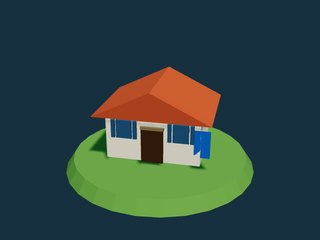
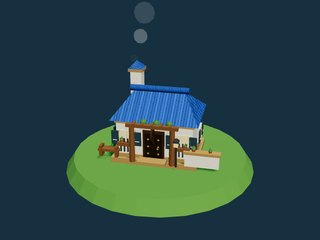
Richer detail for English, Castilian, French and German town/castle styles; roofs now use the player color
Claude-Session: https://claude.ai/code/session_01BJu2j5nwc4SUWkVPyrxHQx

Changed region(s): [[0.2812, 0.2333, 0.6875, 0.7292], [0.4062, 0.0, 0.5, 0.175]]

diff --git a/3d/index.html b/3d/index.html
@@ -764,67 +764,296 @@ async function buildIsland(){
     const r=city?.42:.3,disc=new THREE.Mesh(new THREE.CylinderGeometry(r,r,.016,28),new THREE.MeshBasicMaterial({color:col,transparent:true,opacity:.7,toneMapped:false,depthWrite:false}));disc.position.y=.01;g.add(disc);
     const rg=new THREE.Mesh(new THREE.RingGeometry(r,r+(city?.05:.035),28),new THREE.MeshBasicMaterial({color:city?0xf2c14e:0xffffff,side:THREE.DoubleSide,toneMapped:false,depthWrite:false}));rg.rotation.x=-Math.PI/2;rg.position.y=.022;g.add(rg);
   }
-const STYB=(()=>{const fm=(c,r=.85)=>new THREE.MeshStandardMaterial({color:c,roughness:r,flatShading:true});
-const mc={};const M=c=>mc[c]||(mc[c]=fm(c));
-function add(p,m,x,y,z){m.position.set(x,y,z);m.castShadow=m.receiveShadow=true;p.add(m);return m;}
-const box=(p,w,h,d,c,x,y,z)=>add(p,new THREE.Mesh(new THREE.BoxGeometry(w,h,d),M(c)),x,y+h/2,z);
-const cyl=(p,rt,rb,h,n,c,x,y,z)=>add(p,new THREE.Mesh(new THREE.CylinderGeometry(rt,rb,h,n),M(c)),x,y+h/2,z);
-const cone=(p,r,h,n,c,x,y,z)=>add(p,new THREE.Mesh(new THREE.ConeGeometry(r,h,n),M(c)),x,y+h/2,z);
-const ball=(p,r,c,x,y,z)=>add(p,new THREE.Mesh(new THREE.SphereGeometry(r,8,6),new THREE.MeshStandardMaterial({color:c,roughness:.4,metalness:.5,flatShading:true})),x,y,z);
-function gable(p,w,h,d,c,x,y,z){const s=new THREE.Shape();s.moveTo(-w/2,0);s.lineTo(w/2,0);s.lineTo(0,h);s.closePath();const g=new THREE.ExtrudeGeometry(s,{depth:d,bevelEnabled:false});g.translate(0,0,-d/2);return add(p,new THREE.Mesh(g,M(c)),x,y,z);}
-function roof(p,w,d,h,c,x,y,z,ov=.25){return gable(p,w+ov*2,h,d+ov*2,c,x,y,z);}
-function merl(p,w,d,y,c,s=.34,x0=0,z0=0){const n=Math.max(2,Math.round(w/(s*2))),m=Math.max(2,Math.round(d/(s*2)));
- for(let i=0;i<n;i++){const x=-w/2+s/2+i*(w-s)/(n-1);box(p,s,s,s*.6,c,x0+x,y,z0+d/2-s*.3);box(p,s,s,s*.6,c,x0+x,y,z0-d/2+s*.3);}
- for(let i=1;i<m-1;i++){const z=-d/2+s/2+i*(d-s)/(m-1);box(p,s*.6,s,s,c,x0-w/2+s*.3,y,z0+z);box(p,s*.6,s,s,c,x0+w/2-s*.3,y,z0+z);}}
-function win(p,x,y,z,ry=0,w=.5,h=.6,c=0xffe9a8){const o=box(p,w,h,.08,c,x,y,z);o.rotation.y=ry;return o;}
-function door(p,x,z,w=.7,h=1.1,c=0x3a2a18){box(p,w,h,.1,c,x,0,z);}
-function post(p,x,z,h,c=0x5a3a1c,r=.07){cyl(p,r,r,h,6,c,x,0,z);}
-let PC=0x2b6fd6;const banners=[];
-function banner(p,x,y,z,h=1.2,w=.7,ry=0){const g=new THREE.PlaneGeometry(w,h);const m=new THREE.Mesh(g,new THREE.MeshStandardMaterial({color:PC,roughness:.7,side:THREE.DoubleSide}));m.position.set(x,y+h/2,z);m.rotation.y=ry;p.add(m);banners.push(m);return m;}
-function flag(p,x,y,z){cyl(p,.04,.04,1.3,5,0x3a2a18,x,y,z);const g=new THREE.PlaneGeometry(.9,.5);g.translate(.45,0,0);const m=new THREE.Mesh(g,new THREE.MeshStandardMaterial({color:PC,roughness:.7,side:THREE.DoubleSide}));m.position.set(x+.04,y+1.05,z);p.add(m);banners.push(m);}
-const ST=0xa8a59c,STD=0x77736a,WOOD=0x7a4f2a,DK=0x3a2a18;
-/* ---------- casas ---------- */
+const STYB=(()=>{
+const MM={},mat=c=>MM[c]||(MM[c]=flatMat(c,.9)),mt=m=>(typeof m==='object'&&m)?m:mat(m);
+const PLA=0xf2e9d6,WHT=0xf7f3ea,TIM=0x4a3122,STL=0xc2bcae,STM=0x9a948a,STD=0x6f6a62,SAN=0xd8b67e,SAD=0xb8935a,BRK=0x9a4a34,WD=0x4a2f18,IRN=0x3a3f46,GLD=0xe8c35a,GRN=0x4f8a46,TER=0xc1663c,ROCK=0x7d786e;
+const goldM=new THREE.MeshStandardMaterial({color:GLD,metalness:.65,roughness:.3,flatShading:true});
+const SMKQ=[];
+const B=(g,w,h,d,m,x,y,z,ry)=>{const o=new THREE.Mesh(new THREE.BoxGeometry(w,h,d),mt(m));o.position.set(x,y+h/2,z);if(ry)o.rotation.y=ry;g.add(o);return o;};
+const BR=(g,w,h,d,m,x,y,z,rz)=>{const o=B(g,w,h,d,m,x,y,z);o.rotation.z=rz;return o;};
+const CY=(g,rt,rb,h,n,m,x,y,z)=>{const o=new THREE.Mesh(new THREE.CylinderGeometry(rt,rb,h,n),mt(m));o.position.set(x,y+h/2,z);g.add(o);return o;};
+const CO=(g,r,h,n,m,x,y,z,ry)=>{const o=new THREE.Mesh(new THREE.ConeGeometry(r,h,n),mt(m));o.position.set(x,y+h/2,z);if(ry)o.rotation.y=ry;g.add(o);return o;};
+const SPH=(g,r,m,x,y,z)=>{const o=new THREE.Mesh(new THREE.SphereGeometry(r,10,8),mt(m));o.position.set(x,y,z);g.add(o);return o;};
+const GAB=(g,w,h,d,m,x,y,z,ax)=>{const o=new THREE.Mesh(prism(w,h,d),mt(m));o.position.set(x,y,z);if(ax)o.rotation.y=Math.PI/2;g.add(o);return o;};
+const ARC=(g,r,t,m,x,y,z)=>{const o=new THREE.Mesh(new THREE.CylinderGeometry(r,r,t,14,1,false,0,Math.PI),mt(m));o.rotation.x=Math.PI/2;o.rotation.z=Math.PI/2;o.position.set(x,y,z);g.add(o);return o;};
+function hipGeo(w,d,h,rr){const hw=w/2,hd=d/2,A=[-hw,0,hd],Bv=[hw,0,hd],C=[hw,0,-hd],D=[-hw,0,-hd],E=[-rr,h,0],F=[rr,h,0];
+  const t=(p,q,r)=>[...p,...q,...r],v=[...t(A,Bv,F),...t(A,F,E),...t(C,D,E),...t(C,E,F),...t(Bv,C,F),...t(D,A,E)];
+  const gg=new THREE.BufferGeometry();gg.setAttribute('position',new THREE.Float32BufferAttribute(v,3));
+  const uv=[];for(let i=0;i<v.length;i+=3)uv.push((v[i]+hw)/w*2.2,(v[i+2]+hd)/d*1.6+v[i+1]/h*.8);
+  gg.setAttribute('uv',new THREE.Float32BufferAttribute(uv,2));gg.computeVertexNormals();return gg;}
+const HIP=(g,w,d,h,m,x,y,z,rr=0)=>{const o=new THREE.Mesh(hipGeo(w,d,h,rr),mt(m));o.position.set(x,y,z);g.add(o);return o;};
+function PIT(g,w,d,h,m,x,y,z,ov=.22,th=.13){const hd=d/2+ov,len=Math.hypot(hd,h),ang=Math.atan2(h,hd);
+  for(const s of[-1,1]){const sl=new THREE.Mesh(new THREE.BoxGeometry(w+ov*2,th,len+.04),mt(m));sl.position.set(x,y+h/2,z+s*hd/2);sl.rotation.x=s*ang;g.add(sl);}
+  B(g,w+ov*2+.05,.1,.17,STD,x,y+h-.07,z);}
+function PITZ(g,w,d,h,m,x,y,z,ov=.22,th=.13){const hw=w/2+ov,len=Math.hypot(hw,h),ang=Math.atan2(h,hw);
+  for(const s of[-1,1]){const sl=new THREE.Mesh(new THREE.BoxGeometry(len+.04,th,d+ov*2),mt(m));sl.position.set(x+s*hw/2,y+h/2,z);sl.rotation.z=-s*ang;g.add(sl);}
+  B(g,.17,.1,d+ov*2+.05,STD,x,y+h-.07,z);}
+function WIN(g,x,y,z,w,h,ry,sh,m){const o=new THREE.Group();o.position.set(x,y,z);if(ry)o.rotation.y=ry;g.add(o);
+  B(o,w,h,.06,lampM,0,-h/2,.02);B(o,w+.14,.07,.09,m||trimM,0,h/2-.03,0);B(o,w+.14,.08,.12,m||trimM,0,-h/2-.06,0);
+  for(const s of[-1,1])B(o,.07,h+.06,.09,m||trimM,s*(w/2+.03),-h/2-.02,0);
+  B(o,w,.045,.1,m||trimM,0,0,.01);B(o,.045,h,.1,m||trimM,0,-h/2,.01);
+  if(sh)for(const s of[-1,1]){const p=B(o,w*.52,h,.05,shutM,s*(w/2+w*.3),-h/2,.06);B(o,w*.3,.03,.03,trimM,s*(w/2+w*.3),-h/2+h*.3,.09);}
+  return o;}
+function DOOR(g,x,y,z,w,h,arch){B(g,w+.16,h+.1,.07,WD,x,y,z+.01);B(g,w,h,.1,0x2a1a0e,x,y,z+.04);
+  for(let i=0;i<3;i++)B(g,w-.08,.05,.05,0x1a1008,x,y+.14+i*(h/3.4),z+.08);
+  if(arch)ARC(g,w/2+.08,.07,WD,x,y+h,z+.01);
+  SPH(g,.05,goldM,x+w*.26,y+h*.45,z+.1);}
+function LAMP(g,x,y,z,h=.75){CY(g,.035,.045,h,6,IRN,x,y,z);B(g,.17,.18,.17,lampM,x,y+h,z);B(g,.22,.05,.22,IRN,x,y+h+.18,z);CO(g,.16,.12,4,IRN,x,y+h+.23,z,.78);}
+function BUSH(g,x,y,z,s=1){CO(g,.3*s,.5*s,7,GRN,x,y,z);CO(g,.22*s,.34*s,6,0x3f7a38,x+.22*s,y,z+.1*s);}
+function POT(g,x,y,z,s=1){CY(g,.15*s,.12*s,.2*s,8,TER,x,y,z);CO(g,.17*s,.28*s,6,GRN,x,y+.18*s,z);SPH(g,.05*s,0xe05a5a,x+.08*s,y+.3*s,z);}
+function BARREL(g,x,y,z){CY(g,.17,.15,.34,10,0x7a4f2a,x,y,z);CY(g,.175,.175,.04,10,IRN,x,y+.07,z);CY(g,.175,.175,.04,10,IRN,x,y+.24,z);}
+function LOGS(g,x,y,z){for(const[dx,dy]of[[0,0],[.19,0],[.38,0],[.095,.18],[.285,.18]]){const l=CY(g,.09,.09,.5,8,0x7a4f2a,x+dx,y+dy,z);l.rotation.x=Math.PI/2;l.position.y=y+dy+.09;}}
+function CREN(g,w,d,y,m,s=.3,x0=0,z0=0,t=null){const th=t||s*.62,n=Math.max(2,Math.round(w/(s*2))),q=Math.max(2,Math.round(d/(s*2)));
+  for(let i=0;i<n;i++){const x=-w/2+s/2+i*(w-s)/(n-1);B(g,s,s*.95,th,m,x0+x,y,z0+d/2-th/2);B(g,s,s*.95,th,m,x0+x,y,z0-d/2+th/2);}
+  for(let i=1;i<q-1;i++){const z=-d/2+s/2+i*(d-s)/(q-1);B(g,th,s*.95,s,m,x0-w/2+th/2,y,z0+z);B(g,th,s*.95,s,m,x0+w/2-th/2,y,z0+z);}}
+function CRENR(g,r,y,m,n=10,s=.22,x0=0,z0=0){for(let i=0;i<n;i++){const a=i/n*6.283;B(g,s,s,s,m,x0+Math.cos(a)*r,y,z0+Math.sin(a)*r,-a);}}
+function SLIT(g,x,y,z,ry,h=.45){const o=B(g,.1,h,.08,0x1a1a1a,x,y,z,ry);B(g,.3,.09,.07,0x1a1a1a,x,y+h*.55,z,ry);return o;}
+function BANNER(g,col,x,y,z,w=.42,h=.95,ry){const m=new THREE.Mesh(new THREE.PlaneGeometry(w,h),new THREE.MeshStandardMaterial({color:col,roughness:.75,side:THREE.DoubleSide}));
+  m.position.set(x,y-h/2,z);if(ry)m.rotation.y=ry;g.add(m);B(g,w+.1,.06,.06,0x3a2a18,x,y,z+(ry?0:.01),ry);
+  const tp=new THREE.Mesh(new THREE.ConeGeometry(w*.5,w*.42,3),new THREE.MeshStandardMaterial({color:col,roughness:.75,side:THREE.DoubleSide}));
+  tp.position.set(x,y-h-w*.2,z);tp.rotation.x=Math.PI;if(ry)tp.rotation.y=ry;tp.scale.z=.02;g.add(tp);return m;}
+function FLAG(g,col,x,y,z,h=1.5){CY(g,.045,.045,h,6,0x3a2a18,x,y,z);SPH(g,.09,goldM,x,y+h+.05,z);
+  const fg=new THREE.PlaneGeometry(.95,.52);fg.translate(.475,0,0);
+  const f=new THREE.Mesh(fg,new THREE.MeshStandardMaterial({color:col,roughness:.7,side:THREE.DoubleSide}));f.position.set(x+.04,y+h-.3,z);g.add(f);flags.push(f);return f;}
+function TORCH(g,x,y,z){CY(g,.03,.04,.5,6,IRN,x,y,z);SPH(g,.1,lampM,x,y+.56,z);}
+function STAIR(g,x,y,z,w,n,m){for(let i=0;i<n;i++)B(g,w,.1,.22,m,x,y+i*.1,z+i*.22);}
+function PINE(g,x,y,z,s=1){CY(g,.06*s,.08*s,.3*s,6,0x5a3f24,x,y,z);for(let i=0;i<3;i++)CO(g,(.34-i*.08)*s,(.46-i*.06)*s,7,0x2f6b3a,x,y+(.24+i*.3)*s,z);}
+function TIMB(g,x0,x1,y,h,z,c){B(g,.1,h,.09,c,x0,y,z);B(g,.1,h,.09,c,x1,y,z);B(g,x1-x0,.1,.09,c,(x0+x1)/2,y+h-.1,z);
+  const w=x1-x0,len=Math.hypot(w,h);BR(g,len,.09,.085,c,(x0+x1)/2,y+h/2-.045,z+.004,Math.atan2(h,w));}
+/* ===================== PUEBLOS ===================== */
 const H={};
-H.ingles=p=>{box(p,3,1.5,2.2,0xefe3c6,0,.2,0);for(const x of[-1.45,-.5,.5,1.45])box(p,.12,1.5,2.24,0x4a2f18,x,.2,0);box(p,3.04,.12,2.24,0x4a2f18,0,.95,0);
- for(const s of[-1,1]){const b=box(p,.1,1.2,.1,0x4a2f18,s*.9,.4,1.12);b.rotation.z=s*.7;}
- roof(p,3,2.2,1.3,0x6a6460,0,1.7,0,.3);box(p,.5,1.2,.5,0x9a4a34,.9,1.9,-.5);door(p,0,1.12,.6,1);win(p,-.9,1.1,1.12,0,.5,.45,0x7fb8d0);win(p,.9,1.1,1.12,0,.5,.45,0x7fb8d0);banner(p,-1.55,.4,1.1,.9,.5);};
-H.espanol=p=>{box(p,3,1.5,2.2,0xf4efe2,0,.2,0);roof(p,3,2.2,.9,0xc0562e,0,1.7,0,.35);
- box(p,.7,1.1,.1,0x4a2f18,0,.2,1.12);box(p,.74,.1,.12,0x8a7a5a,0,1.3,1.12);win(p,-.9,.95,1.12,0,.5,.6,0x2f5f8a);win(p,.9,.95,1.12,0,.5,.6,0x2f5f8a);
- for(const x of[-.9,.9]){box(p,.12,.6,.1,0x2f5f8a,x-.35,.95,1.12);box(p,.12,.6,.1,0x2f5f8a,x+.35,.95,1.12);}banner(p,1.55,.5,1.1,.9,.5);};
-H.frances=p=>{box(p,3,1.4,2.2,0xe4dccb,0,.2,0);roof(p,3,2.2,2.0,0x4a5a74,0,1.6,0,.3);
- box(p,.9,.9,.7,0xe4dccb,0,1.9,.9);gable(p,1.3,.8,.7,0x4a5a74,0,2.8,.9);win(p,0,2.1,1.26,0,.35,.45,0x7fb8d0);
- door(p,0,1.12,.6,1);win(p,-.95,1.0,1.12,0,.45,.55,0x7fb8d0);win(p,.95,1.0,1.12,0,.45,.55,0x7fb8d0);banner(p,1.55,.5,1.1,.9,.5);};
-H.aleman=p=>{box(p,3,1.4,2.2,0xf1e7cf,0,.2,0);box(p,3.04,.12,2.24,0x4a2f18,0,.85,0);for(const x of[-1.45,-.4,.4,1.45])box(p,.12,1.4,2.24,0x4a2f18,x,.2,0);
- const b=box(p,.1,1,.1,0x4a2f18,-.9,.4,1.12);b.rotation.z=.7;roof(p,3,2.2,2.3,0xb8472f,0,1.6,0,.3);
- door(p,0,1.12,.6,1);win(p,-.95,1.0,1.12,0,.45,.4,0x7fb8d0);win(p,.95,1.0,1.12,0,.45,.4,0x7fb8d0);banner(p,1.55,.5,1.1,.9,.5);};
-/* ---------- castillos ---------- */
+H.en=(g,col)=>{const R=roofMat(col);
+  B(g,3.3,.2,2.5,STM,0,0,0);B(g,1.0,.1,.4,STM,0,.2,1.33);
+  B(g,3,1.05,2.2,PLA,0,.2,0);
+  for(const z of[1.11,-1.11])TIMB(g,-1.35,1.35,.2,1.05,z,TIM);
+  B(g,.1,1.05,2.24,TIM,-1.5,.2,0);B(g,.1,1.05,2.24,TIM,1.5,.2,0);
+  B(g,3.4,.16,2.6,TIM,0,1.22,0);
+  for(const[sx,sz]of[[-1.5,1.2],[1.5,1.2],[-1.5,-1.2],[1.5,-1.2]]){const br=BR(g,.34,.1,.1,TIM,sx*.93,1.1,sz,0.7);}
+  B(g,3.3,.95,2.5,PLA,0,1.38,0);
+  for(const z of[1.26,-1.26])TIMB(g,-1.5,1.5,1.38,.95,z,TIM);
+  B(g,.1,.95,2.54,TIM,-1.65,1.38,0);B(g,.1,.95,2.54,TIM,1.65,1.38,0);
+  GAB(g,2.52,.9,3.32,PLA,0,2.33,0,1);
+  for(const sx of[-1,1]){BR(g,1.5,.1,.09,TIM,sx*.62,2.72,1.26,-sx*.62);BR(g,1.5,.1,.09,TIM,sx*.62,2.72,-1.26,-sx*.62);}
+  PIT(g,3.3,2.5,1.0,R,0,2.33,0,.3,.15);
+  B(g,.62,2.1,.62,BRK,1.12,2.0,-.62);B(g,.76,.14,.76,STD,1.12,4.1,-.62);
+  for(const dz of[-.16,.16])CY(g,.12,.14,.3,8,0x6a3a28,1.12,4.24,-.62+dz);
+  SMKQ.push({x:1.12,y:4.6,z:-.62});
+  const dm=new THREE.Group();dm.position.set(-.75,2.62,.62);g.add(dm);
+  B(dm,.85,.62,.8,PLA,0,0,0);GAB(dm,.88,.5,.82,PLA,0,.62,0);PITZ(dm,.86,.8,.52,R,0,.62,0,.12,.1);
+  WIN(dm,0,.42,.42,.4,.42,0,false);
+  WIN(g,-.95,.78,1.12,.55,.5,0,true);WIN(g,.95,.78,1.12,.55,.5,0,true);
+  WIN(g,-.95,1.95,1.28,.55,.52,0,true);WIN(g,.95,1.95,1.28,.55,.52,0,true);
+  WIN(g,1.68,1.95,0,.5,.5,Math.PI/2,false);
+  DOOR(g,0,.2,1.11,.62,1.0,true);LAMP(g,-.55,.3,1.26,.95);
+  B(g,.7,.16,.22,TIM,-.95,.5,1.2);POT(g,-1.05,.66,1.2,.6);POT(g,-.82,.66,1.2,.5);
+  BARREL(g,1.52,.2,1.0);LOGS(g,-1.9,.1,-.3);BUSH(g,1.75,.05,.45,.8);BUSH(g,-1.8,.05,.9,.65);};
+H.es=(g,col)=>{const R=roofMat(col);
+  B(g,3.4,.22,2.6,SAD,0,0,0);B(g,1.1,.11,.42,SAD,0,.22,1.42);
+  B(g,3,1.55,2.2,WHT,0,.22,0);B(g,3.06,.14,2.26,SAD,0,.22,0);B(g,3.1,.12,2.3,SAD,0,1.65,0);
+  HIP(g,3.42,2.54,.92,R,0,1.77,0,1.0);
+  for(let i=0;i<7;i++){const c=CY(g,.13,.13,.36,8,R,0,0,0);c.rotation.z=Math.PI/2;c.position.set(-1.0+i*.33,2.74,0);}
+  B(g,.46,.95,.46,WHT,-1.05,2.35,-.5);B(g,.6,.12,.6,SAD,-1.05,3.3,-.5);CO(g,.42,.3,4,R,-1.05,3.42,-.5,.78);
+  SMKQ.push({x:-1.05,y:3.75,z:-.5});
+  for(const x of[-.78,.78])CY(g,.1,.12,1.45,8,0x8a5c30,x,.22,1.42);
+  B(g,2.0,.13,.15,0x8a5c30,0,1.67,1.42);
+  for(let i=0;i<5;i++)B(g,.09,.1,1.05,0x8a5c30,-.7+i*.35,1.73,.98);
+  for(let i=0;i<6;i++)SPH(g,.13,GRN,-.62+i*.25,1.79,.9+((i%2)?.3:-.05));
+  DOOR(g,0,.22,1.12,.68,1.12,true);
+  for(let i=0;i<3;i++)for(const s of[-1,1])SPH(g,.05,goldM,s*.2,.5+i*.3,1.2);
+  for(const sx of[-1,1]){const w=WIN(g,sx*1.08,1.05,1.11,.56,.56,0,true);
+    for(let i=0;i<4;i++)B(w,.045,.56,.05,IRN,-.21+i*.14,-.56,.1);B(w,.56,.05,.05,IRN,0,-.28,.1);
+    B(g,.68,.14,.22,0x8a5c30,sx*1.08,.76,1.2);POT(g,sx*1.08-.17,.9,1.2,.5);POT(g,sx*1.08+.17,.9,1.2,.44);}
+  WIN(g,1.62,1.05,0,.5,.5,Math.PI/2,true);WIN(g,-1.62,1.05,.3,.5,.5,-Math.PI/2,true);
+  B(g,1.3,.52,.2,WHT,1.9,.22,1.3);B(g,1.4,.1,.3,SAD,1.9,.74,1.3);
+  POT(g,1.58,.84,1.3,.55);POT(g,2.2,.84,1.3,.46);
+  B(g,.85,.1,.32,0x8a5c30,-1.8,.45,1.15);for(const x of[-2.12,-1.48])B(g,.12,.45,.3,0x8a5c30,x,.22,1.15);
+  LAMP(g,.95,.22,1.52,.85);BUSH(g,-1.95,.05,.1,.7);};
+H.fr=(g,col)=>{const R=roofMat(col);
+  B(g,3.3,.26,2.5,STM,0,0,0);
+  B(g,3,1.45,2.2,PLA,0,.26,0);
+  for(const sx of[-1,1])for(let i=0;i<5;i++)B(g,.3,.22,.3,STL,sx*1.5,.3+i*.26,(i%2?1.05:1.05)-(i%2?.0:.0));
+  for(const sx of[-1,1])for(let i=0;i<5;i++)B(g,.3,.22,.3,STL,sx*1.5,.3+i*.26,-1.05);
+  B(g,3.1,.12,2.3,STL,0,1.6,0);
+  GAB(g,2.46,1.5,3.3,PLA,0,1.72,0,1);
+  PIT(g,3.3,2.46,1.85,R,0,1.72,0,.26,.14);
+  for(let i=0;i<9;i++)B(g,.12,.12,.12,STD,-.9+i*.22,3.56,0);
+  CO(g,.14,.42,4,goldM,0,3.62,0,.78);
+  for(const sx of[-1,1]){const dm=new THREE.Group();dm.position.set(sx*.86,2.1,.78);g.add(dm);
+    B(dm,.8,.72,.72,PLA,0,0,0);GAB(dm,.82,.52,.74,PLA,0,.72,0);PITZ(dm,.8,.72,.54,R,0,.72,0,.12,.1);
+    WIN(dm,0,.46,.38,.42,.48,0,false);CO(dm,.07,.2,4,goldM,0,1.26,0,.78);}
+  B(g,.56,2.3,.56,STL,-1.3,1.9,-.7);B(g,.72,.14,.72,STD,-1.3,4.2,-.7);
+  for(const dx of[-.14,.14])CY(g,.1,.11,.26,8,0x6a5a4a,-1.3+dx,4.34,-.7);
+  SMKQ.push({x:-1.3,y:4.68,z:-.7});
+  STAIR(g,0,.0,1.16,.9,3,STL);
+  DOOR(g,0,.3,1.38,.64,1.08,false);B(g,1.0,.12,.3,STL,0,1.4,1.3);GAB(g,1.0,.3,.3,STL,0,1.52,1.3);
+  for(const sx of[-1,1])B(g,.07,.42,.07,IRN,sx*.42,.3,1.38);
+  WIN(g,-1.0,.95,1.12,.56,.72,0,true);WIN(g,1.0,.95,1.12,.56,.72,0,true);
+  WIN(g,1.62,1.0,0,.52,.66,Math.PI/2,true);
+  B(g,.7,.16,.22,shutM,-1.0,.6,1.2);POT(g,-1.1,.76,1.2,.5);POT(g,-.86,.76,1.2,.45);
+  LAMP(g,.72,.3,1.42,.95);BUSH(g,1.8,.05,.8,.75);BUSH(g,-1.85,.05,-.2,.6);BARREL(g,1.6,.1,-.8);};
+H.de=(g,col)=>{const R=roofMat(col),T=0x3f2a1a;
+  B(g,3.3,.3,2.5,STM,0,0,0);
+  B(g,3,1.1,2.2,PLA,0,.3,0);
+  for(const z of[1.11,-1.11]){B(g,3,.12,.09,T,0,1.28,z);B(g,3,.12,.09,T,0,.3,z);
+    for(const x of[-1.5,-.5,.5,1.5])B(g,.11,1.1,.09,T,x,.3,z);
+    for(const[a,b]of[[-1.5,-.5],[.5,1.5]]){const w=1,h=1.1,len=Math.hypot(w,h);BR(g,len,.1,.085,T,(a+b)/2,.85-.05,z+.004,Math.atan2(h,w));BR(g,len,.1,.085,T,(a+b)/2,.85-.05,z+.004,-Math.atan2(h,w));}}
+  for(const x of[-1.5,1.5]){B(g,.1,1.1,2.24,T,x,.3,0);B(g,.1,.12,2.24,T,x,1.28,0);}
+  B(g,3.45,.18,2.62,T,0,1.4,0);
+  for(const[sx,sz]of[[-1,1],[1,1],[-1,-1],[1,-1]])BR(g,.4,.12,.12,T,sx*1.42,1.26,sz*1.2,.7);
+  B(g,3.35,1.0,2.55,PLA,0,1.58,0);
+  for(const z of[1.28,-1.28]){B(g,3.35,.11,.09,T,0,2.47,z);for(const x of[-1.67,-.84,0,.84,1.67])B(g,.11,1.0,.09,T,x,1.58,z);
+    for(const s of[-1,1]){const len=Math.hypot(.84,1.0);BR(g,len,.09,.085,T,s*.42,2.08-.05,z+.004,s*Math.atan2(1.0,.84));}}
+  for(const x of[-1.67,1.67])B(g,.1,1.0,2.59,T,x,1.58,0);
+  GAB(g,2.57,1.6,3.37,PLA,0,2.58,0,1);
+  for(const sx of[-1,1]){const ang=Math.atan2(1.6,1.285),len=Math.hypot(1.285,1.6);
+    for(const s of[-1,1]){const o=B(g,.09,.1,len+.1,T,sx*1.68,3.33,s*.64);o.rotation.x=s*ang;}
+    B(g,.09,1.6,.12,T,sx*1.68,2.58,0);B(g,.09,.11,2.57,T,sx*1.68,2.58,0);
+    const w2=WIN(g,sx*1.69,3.3,0,.42,.44,sx>0?Math.PI/2:-Math.PI/2,false);}
+  PIT(g,3.35,2.57,1.72,R,0,2.58,0,.3,.15);
+  const dm=new THREE.Group();dm.position.set(.8,3.1,.72);g.add(dm);
+  B(dm,.9,.6,.7,PLA,0,0,0);GAB(dm,.92,.5,.72,PLA,0,.6,0);PITZ(dm,.9,.7,.5,R,0,.6,0,.12,.1);WIN(dm,0,.4,.38,.44,.42,0,false);
+  B(g,.56,1.5,.56,STM,-1.15,3.3,-.66);B(g,.7,.14,.7,STD,-1.15,4.8,-.66);
+  SMKQ.push({x:-1.15,y:5.1,z:-.66});
+  DOOR(g,0,.3,1.11,.68,1.05,true);
+  for(const sx of[-1,1]){const w=WIN(g,sx*1.0,.9,1.12,.5,.5,0,true);
+    for(const s of[-1,1])B(w,.12,.12,.04,lampM,s*(.25+.15),-.25,.09);}
+  WIN(g,-.84,2.2,1.29,.5,.5,0,true);WIN(g,.84,2.2,1.29,.5,.5,0,true);WIN(g,0,2.2,1.29,.45,.45,0,false);
+  WIN(g,1.72,2.2,0,.5,.5,Math.PI/2,false);
+  LOGS(g,1.72,.1,.5);LAMP(g,-.62,.3,1.3,.9);B(g,.9,.12,.3,T,1.0,.3,1.35);for(const x of[.65,1.35])B(g,.1,.3,.28,T,x,.3,1.35);
+  BUSH(g,-1.9,.05,.5,.7);PINE(g,1.95,.02,-1.0,.9);};
+/* ===================== CASTILLOS ===================== */
 const C={};
-C.ingles=p=>{box(p,6,.2,4.6,STD,0,0,0);const W=5.6,D=4.2,wh=1.3;
- box(p,W,wh,.3,ST,0,.2,D/2-.15);box(p,W,wh,.3,ST,0,.2,-D/2+.15);box(p,.3,wh,D,ST,-W/2+.15,.2,0);box(p,.3,wh,D,ST,W/2-.15,.2,0);
- merl(p,W,D,.2+wh,ST,.34);
- for(const [x,z] of[[-W/2,-D/2],[W/2,-D/2],[-W/2,D/2],[W/2,D/2]]){box(p,.9,2.2,.9,ST,x,.2,z);merl(p,.9,.9,2.4,ST,.3,x,z);}
- box(p,2.3,4,2.3,ST,0,.2,-.3);merl(p,2.3,2.3,4.2,STD,.42,0,-.3);for(const [x,z] of[[-1.1,-1.4],[1.1,-1.4],[-1.1,.8],[1.1,.8]])box(p,.5,.9,.5,STD,x,4.2,z);
- for(const y of[1.3,2.3,3.2]){win(p,0,y,.88,0,.35,.6,0x2a1d10);win(p,0,y,-1.48,0,.35,.6,0x2a1d10);}
- box(p,1.3,1.1,.2,DK,0,.2,D/2+.02);flag(p,0,4.4,-.3);};
-C.espanol=p=>{const SA=0xd6b27a,SD=0xb8935a;box(p,6,.2,4.6,SD,0,0,0);const W=5.6,D=4.2;
- box(p,W,1.5,.4,SA,0,.2,D/2-.2);box(p,W,1.5,.4,SA,0,.2,-D/2+.2);box(p,.4,1.5,D,SA,-W/2+.2,.2,0);box(p,.4,1.5,D,SA,W/2-.2,.2,0);merl(p,W,D,1.7,SA,.36);
- for(const [x,z] of[[-W/2,-D/2],[W/2,-D/2],[-W/2,D/2],[W/2,D/2]]){box(p,1,2.6,1,SA,x,.2,z);merl(p,1,1,2.8,SA,.3,x,z);win(p,x,1.6,z+.52,0,.2,.5,0x2a1d10);}
- box(p,2.2,4.4,2.2,0xe0bd88,0,.2,-.2);merl(p,2.2,2.2,4.6,0xe0bd88,.4,0,-.2);for(const y of[2.2,3.3])for(const s of[-.5,0,.5])win(p,s,y,.92,0,.2,.6,0x2a1d10);
- box(p,1.4,1.3,.2,DK,0,.2,D/2+.02);flag(p,0,4.9,-.2);};
-C.frances=p=>{const W=5.2,D=3.6,CS=0xe6e0d0,CR=0x4f6682;box(p,6,.2,4.6,STD,0,0,0);
- box(p,W,1.6,D,CS,0,.2,0);box(p,W+.2,.12,D+.2,0x9a948a,0,1.8,0);
- for(const [x,z,h] of[[-W/2,-D/2,2.8],[W/2,-D/2,2.8],[-W/2,D/2,2.8],[W/2,D/2,2.8]]){cyl(p,.85,.9,h,10,CS,x,.2,z);cone(p,1.05,2.2,10,CR,x,.2+h,z);ball(p,.12,0xe0b84a,x,.2+h+2.25,z);win(p,x,1.6,z+(z>0?.88:-.88),0,.25,.55,0x2a1d10);}
- cyl(p,1.0,1.05,4.4,10,CS,0,.2,-.2);cone(p,1.25,3,10,CR,0,4.6,-.2);ball(p,.14,0xe0b84a,0,7.7,-.2);for(const y of[2.2,3.4])win(p,0,y,.82,0,.28,.6,0x2a1d10);
- box(p,1.2,1.2,.2,DK,0,.2,D/2+.02);flag(p,0,7.8,-.2);};
-C.aleman=p=>{const rk=new THREE.Mesh(new THREE.ConeGeometry(3.4,2.2,7),M(0x7a7468));add(p,rk,0,1.1,0);cyl(p,2.2,2.5,.6,7,0x6a6458,0,2.0,0);
- box(p,3.4,1.5,2,0xc2b9a4,.7,2.6,.2);roof(p,3.4,2,1.4,0x8a3a2a,.7,4.1,.2,.3);
- box(p,1.5,3.4,1.5,0xcfc7b2,-1.2,2.6,-.3);cone(p,1.15,3.2,4,0x3f4a5a,-1.2,6.0,-.3).rotation.y=Math.PI/4;
- cyl(p,.55,.6,2.4,8,0xcfc7b2,1.9,2.6,-.8);cone(p,.75,1.3,8,0x8a3a2a,1.9,5.0,-.8);
- door(p,.7,1.22,.7,1.1);win(p,-1.2,4.4,.46,0,.3,.55,0x2a1d10);win(p,-1.2,3.4,.46,0,.3,.55,0x2a1d10);flag(p,-1.2,9.2,-.3);};
-
-const wrap=(f,sc)=>col=>{PC=new THREE.Color(col).getHex();const g=new THREE.Group(),inner=new THREE.Group();f(inner);inner.scale.setScalar(sc);g.add(inner);g.traverse(o=>{if(o.isMesh){o.castShadow=true;o.receiveShadow=true;}});return g;};
+C.en=(g,col)=>{const R=roofMat(col),W=5.6,D=4.2;
+  B(g,6.2,.3,4.8,STD,0,-.05,0);B(g,5.9,.12,4.5,0x8a8478,0,.25,0);
+  for(const[w,d,x,z]of[[W,.42,0,D/2-.21],[W,.42,0,-D/2+.21],[.42,D,-W/2+.21,0],[.42,D,W/2-.21,0]])B(g,w,1.45,d,STL,x,.25,z);
+  CREN(g,W,D,1.7,STL,.34,0,0,.26);
+  for(let i=0;i<4;i++){SLIT(g,-1.6+i*1.05,.9,D/2+.02,0,.45);SLIT(g,-1.6+i*1.05,.9,-D/2-.02,0,.45);}
+  for(const[x,z]of[[-W/2,-D/2],[W/2,-D/2],[-W/2,D/2],[W/2,D/2]]){
+    B(g,1.1,2.5,1.1,STL,x,.25,z);B(g,1.24,.14,1.24,STM,x,2.62,z);CREN(g,1.24,1.24,2.76,STL,.3,x,z,.24);
+    SLIT(g,x,1.5,z+(z>0?.57:-.57),0,.4);SLIT(g,x+(x>0?.57:-.57),1.5,z,Math.PI/2,.4);
+    if(z<0)CO(g,.92,1.1,4,R,x,2.9,z,.78);}
+  const gx=0,gz=D/2;
+  for(const s of[-1,1]){CY(g,.62,.68,2.9,12,STL,s*1.15,.25,gz);CRENR(g,.66,3.2,STL,10,.24,s*1.15,gz);SLIT(g,s*1.15,1.7,gz+.6,0,.4);}
+  B(g,2.3,.9,.9,STL,0,2.2,gz);CREN(g,2.3,.9,3.15,STL,.3,0,gz,.24);
+  B(g,1.4,1.5,.3,0x241a10,0,.25,gz+.12);ARC(g,.7,.3,0x241a10,0,1.75,gz+.12);
+  for(let i=0;i<5;i++)B(g,.08,1.9,.1,IRN,-.52+i*.26,.3,gz+.24);
+  for(let i=0;i<4;i++)B(g,1.3,.07,.1,IRN,0,.55+i*.42,gz+.24);
+  for(let i=0;i<5;i++)B(g,1.3,.09,.26,0x6a4a2a,0,.02,gz+.46+i*.27);
+  for(const s of[-1,1]){CY(g,.04,.04,1.3,6,IRN,s*.66,1.9,gz+.3);}
+  B(g,2.4,2.9,2.4,STL,0,.25,-.35);B(g,2.64,.18,2.64,STM,0,3.15,-.35);
+  for(const[sx,sz]of[[-1,-1],[1,-1],[-1,1],[1,1]]){CY(g,.38,.42,.95,8,STL,sx*1.2,3.33,-.35+sz*1.2);CO(g,.52,.72,8,R,sx*1.2,4.28,-.35+sz*1.2);}
+  CREN(g,2.64,2.64,3.33,STL,.3,0,-.35,.24);
+  HIP(g,2.5,2.5,1.5,R,0,3.33,-.35,.35);
+  for(const y of[1.3,2.3]){WIN(g,0,y,.87,.44,.6,0,false);WIN(g,-.8,y,.87,.3,.5,0,false);WIN(g,.8,y,.87,.3,.5,0,false);}
+  SLIT(g,1.22,2.2,-.35,Math.PI/2,.5);SLIT(g,-1.22,2.2,-.35,Math.PI/2,.5);
+  for(const x of[-1.7,0,1.7])BANNER(g,col,x,1.62,D/2+.24,.46,1.0);
+  TORCH(g,-.95,1.76,gz+.1);TORCH(g,.95,1.76,gz+.1);
+  CY(g,.42,.46,.4,10,STM,-2.0,.37,-1.3);CY(g,.3,.3,.06,10,0x2a4a5a,-2.0,.72,-1.3);
+  for(const s of[-1,1])CY(g,.05,.05,.7,6,0x5a3f24,-2.0+s*.34,.77,-1.3);B(g,.8,.1,.3,0x5a3f24,-2.0,1.45,-1.3);
+  STAIR(g,1.9,.37,-1.9,.8,4,STM);
+  FLAG(g,col,0,4.8,-.35,1.7);};
+C.es=(g,col)=>{const R=roofMat(col),W=5.6,D=4.4;
+  B(g,6.3,.32,5.0,SAD,0,-.06,0);
+  for(const[w,d,x,z]of[[W,.46,0,D/2-.23],[W,.46,0,-D/2+.23],[.46,D,-W/2+.23,0],[.46,D,W/2-.23,0]])B(g,w,1.6,d,SAN,x,.26,z);
+  B(g,W+.1,.14,D+.1,SAD,0,1.86,0);
+  const mer=(x,z,ry)=>{B(g,.34,.3,.3,SAN,x,2.0,z,ry);CO(g,.3,.34,4,SAD,x,2.28,z,.78);};
+  for(let i=0;i<8;i++){const x=-W/2+.4+i*(W-.8)/7;mer(x,D/2-.16);mer(x,-D/2+.16);}
+  for(let i=1;i<6;i++){const z=-D/2+.4+i*(D-.8)/6;mer(-W/2+.16,z);mer(W/2-.16,z);}
+  for(const[x,z]of[[-W/2,-D/2],[W/2,-D/2],[-W/2,D/2],[W/2,D/2]]){
+    CY(g,.72,.78,3.0,12,SAN,x,.26,z);CY(g,.86,.82,.16,12,SAD,x,3.26,z);
+    CRENR(g,.78,3.5,SAN,9,.26,x,z);CO(g,1.0,1.2,12,R,x,3.64,z);SPH(g,.12,goldM,x,4.92,z);
+    SLIT(g,x,1.8,z+(z>0?.74:-.74),0,.5);}
+  B(g,2.5,4.4,2.5,SAN,0,.26,-.3);
+  B(g,2.9,.3,2.9,SAD,0,4.5,-.3);
+  for(let i=0;i<7;i++)for(const s of[-1,1]){const x=-1.2+i*.4;BR(g,.3,.16,.16,SAD,x,4.4,-.3+s*1.32,0);BR(g,.16,.16,.3,SAD,-.3+s*1.32,4.4,-1.2+i*.4,0);}
+  for(const[sx,sz]of[[-1,-1],[1,-1],[-1,1],[1,1]]){CY(g,.34,.38,1.1,8,SAN,sx*1.3,4.8,-.3+sz*1.3);CRENR(g,.36,5.78,SAN,7,.18,sx*1.3,-.3+sz*1.3);CO(g,.46,.6,8,R,sx*1.3,5.9,-.3+sz*1.3);}
+  const mr=(x,z,ry)=>{B(g,.36,.34,.34,SAN,x,4.8,z,ry);CO(g,.32,.4,4,SAD,x,5.12,z,.78);};
+  for(let i=0;i<5;i++){const x=-1.0+i*.5;mr(x,1.15);mr(x,-1.75);}
+  for(let i=0;i<4;i++){const z=-1.45+i*.5;mr(-1.3,z);mr(1.3,z);}
+  HIP(g,2.3,2.3,1.5,R,0,5.1,-.3,.3);
+  for(const y of[1.6,2.7,3.6]){WIN(g,0,y,.97,.42,.62,0,false);}
+  for(const y of[2.0,3.2]){SLIT(g,-1.28,y,-.3,Math.PI/2,.5);SLIT(g,1.28,y,-.3,Math.PI/2,.5);}
+  const gz=D/2;
+  B(g,1.9,1.1,.5,SAN,0,.26,gz+.12);ARC(g,.95,.5,SAN,0,1.36,gz+.12);
+  B(g,1.4,1.3,.26,0x3a2410,0,.26,gz+.3);ARC(g,.7,.26,0x3a2410,0,1.56,gz+.3);
+  for(let i=0;i<3;i++)for(const s of[-1,1])SPH(g,.06,goldM,s*.36,.5+i*.42,gz+.44);
+  for(let i=0;i<4;i++)B(g,1.36,.09,.24,0x6a4a2a,0,.02,gz+.56+i*.26);
+  for(const x of[-1.6,1.6])BANNER(g,col,x,1.74,gz-.02,.5,1.1);
+  BANNER(g,col,-.95,1.3,gz+.3,.42,.9);BANNER(g,col,.95,1.3,gz+.3,.42,.9);
+  TORCH(g,-1.15,1.5,gz+.3);TORCH(g,1.15,1.5,gz+.3);
+  POT(g,-2.2,.26,1.5,.9);POT(g,2.2,.26,1.5,.9);
+  FLAG(g,col,0,6.6,-.3,1.7);};
+C.fr=(g,col)=>{const R=roofMat(col),W=4.6,D=3.0;
+  B(g,6.4,.3,5.0,STD,0,-.06,0);B(g,6.0,.14,4.6,0x8f9aa6,0,.24,0);
+  B(g,W,2.4,D,PLA,0,.24,0);
+  B(g,W+.16,.16,D+.16,STL,0,2.64,0);B(g,W+.1,.14,D+.1,STL,0,1.3,0);
+  for(const sx of[-1,1])for(let i=0;i<9;i++)B(g,.26,.24,.26,STL,sx*W/2,.3+i*.27,D/2-.12);
+  GAB(g,D+.2,1.5,W+.2,PLA,0,2.8,0,1);
+  PIT(g,W+.2,D+.2,1.7,R,0,2.8,0,.24,.14);
+  for(let i=0;i<11;i++)B(g,.1,.16,.1,STD,-1.1+i*.22,4.5,0);
+  for(const sx of[-1,0,1]){const dm=new THREE.Group();dm.position.set(sx*1.3,3.3,.95);g.add(dm);
+    B(dm,.78,.72,.7,PLA,0,0,0);GAB(dm,.8,.56,.72,PLA,0,.72,0);PITZ(dm,.8,.7,.58,R,0,.72,0,.12,.1);
+    WIN(dm,0,.46,.4,.42,.5,0,false);CO(dm,.07,.26,4,goldM,0,1.34,0,.78);}
+  for(const[x,z]of[[-W/2-.1,-D/2],[W/2+.1,-D/2],[-W/2-.1,D/2],[W/2+.1,D/2]]){
+    CY(g,.78,.84,3.3,14,PLA,x,.24,z);CY(g,.92,.88,.16,14,STL,x,3.54,z);
+    CO(g,1.05,2.3,14,R,x,3.7,z);CY(g,.07,.07,.5,6,goldM,x,6.0,z);SPH(g,.14,goldM,x,6.52,z);
+    for(const y of[1.1,2.3]){const w=WIN(g,x,y,z+(z>0?.8:-.8),.42,.66,z>0?0:Math.PI,false);ARC(g,.24,.08,STL,x,y+.34,z+(z>0?.82:-.82));}
+    CY(g,.86,.86,.12,14,STL,x,1.78,z);}
+  for(const y of[.9,2.0]){for(const x of[-1.4,-.5,.5,1.4]){WIN(g,x,y,D/2+.02,.46,.72,0,true);ARC(g,.26,.08,STL,x,y+.38,D/2+.04);}}
+  for(const x of[-1.4,0,1.4])WIN(g,x,1.0,-D/2-.02,.46,.72,Math.PI,false);
+  B(g,2.0,1.5,.5,PLA,0,.24,D/2+.2);PIT(g,2.0,.5,.7,R,0,1.74,D/2+.2,.18,.1);
+  B(g,1.1,1.5,.22,0x3a2a18,0,.24,D/2+.46);ARC(g,.55,.22,0x3a2a18,0,1.74,D/2+.46);
+  STAIR(g,0,.0,D/2+.62,2.2,3,STL);
+  for(const sx of[-1,1]){for(let i=0;i<4;i++)CY(g,.07,.08,.42,8,STL,sx*1.0,.3+i*.0,D/2+.66+i*.22);B(g,.16,.12,1.0,STL,sx*1.0,.72,D/2+1.0);}
+  B(g,.5,1.9,.5,STL,-1.5,3.3,-.6);B(g,.64,.14,.64,STD,-1.5,5.2,-.6);
+  B(g,.5,1.9,.5,STL,1.5,3.3,-.6);B(g,.64,.14,.64,STD,1.5,5.2,-.6);
+  for(const x of[-2.0,2.0])CO(g,.42,1.0,8,0x3f7a38,x,.3,D/2+1.3);
+  for(const x of[-2.6,2.6])CO(g,.34,.8,8,0x3f7a38,x,.3,D/2+.3);
+  BANNER(g,col,-1.0,2.56,D/2+.06,.44,.95);BANNER(g,col,1.0,2.56,D/2+.06,.44,.95);
+  LAMP(g,-1.3,.3,D/2+1.2,.9);LAMP(g,1.3,.3,D/2+1.2,.9);
+  FLAG(g,col,0,4.6,0,1.8);};
+C.de=(g,col)=>{const R=roofMat(col),T=0x3f2a1a;
+  const rk=CO(g,3.5,1.9,7,ROCK,0,-.3,0,.4);rk.scale.set(1,1,.86);
+  CY(g,2.6,3.0,.5,7,0x6f6a60,0,1.5,0).rotation.y=.4;
+  for(const[x,z,s]of[[-2.6,1.2,.8],[2.5,-1.0,.7],[-1.0,-2.4,.6]]){const r=CO(g,.7*s,.9*s,6,ROCK,x,.4,z,1.1);}
+  B(g,3.4,1.9,2.2,0xc8c1b0,.55,1.9,.25);
+  for(const z of[1.36,-.86]){B(g,3.4,.12,.09,T,.55,3.66,z);for(const x of[-1.15,-.3,.55,1.4,2.25])B(g,.11,.9,.09,T,x,2.88,z);
+    for(const s of[-1,1]){const len=Math.hypot(.85,.9);BR(g,len,.09,.085,T,.55+s*.42,3.3-.05,z+.004,s*Math.atan2(.9,.85));}}
+  B(g,3.5,.14,2.3,T,.55,2.76,.25);
+  GAB(g,2.3,1.3,3.5,0xc8c1b0,.55,3.78,.25,1);
+  PIT(g,3.5,2.3,1.5,R,.55,3.78,.25,.3,.15);
+  B(g,.5,1.3,.5,STM,1.95,5.1,-.4);B(g,.62,.14,.62,STD,1.95,6.4,-.4);
+  SMKQ.push({x:1.95,y:6.7,z:-.4});
+  const dm=new THREE.Group();dm.position.set(.3,4.3,1.0);g.add(dm);
+  B(dm,.8,.6,.7,0xc8c1b0,0,0,0);GAB(dm,.82,.5,.72,0xc8c1b0,0,.6,0);PITZ(dm,.8,.7,.5,R,0,.6,0,.12,.1);WIN(dm,0,.4,.38,.42,.42,0,false);
+  CY(g,.95,1.05,5.4,12,STL,-1.75,1.9,-.2);
+  CY(g,1.18,1.1,.3,12,STM,-1.75,7.0,-.2);
+  for(let i=0;i<10;i++){const a=i/10*6.283;B(g,.26,.3,.26,STL,-1.75+Math.cos(a)*1.06,7.3,-.2+Math.sin(a)*1.06,-a);}
+  CO(g,1.2,2.6,12,R,-1.75,7.6,-.2);CY(g,.06,.06,.4,6,IRN,-1.75,10.2,-.2);SPH(g,.13,goldM,-1.75,10.68,-.2);
+  for(const y of[3.2,4.8]){SLIT(g,-1.75,y,.84,0,.5);SLIT(g,-2.74,y,-.2,Math.PI/2,.5);}
+  WIN(g,-1.75,6.2,.9,.4,.5,0,false);
+  B(g,4.6,1.3,.42,STL,.4,1.9,1.72);
+  B(g,4.7,.3,.62,T,.4,3.2,1.78);
+  for(let i=0;i<7;i++)B(g,.12,.3,.3,T,-1.6+i*.66,2.9,1.92);
+  CREN(g,4.6,.42,3.5,STL,.3,.4,1.72,.3);
+  B(g,1.5,1.9,.5,STL,2.2,1.9,1.74);CREN(g,1.5,.5,3.8,STL,.28,2.2,1.74,.3);
+  B(g,.9,1.2,.26,0x2a1a0e,2.2,1.9,1.98);ARC(g,.45,.26,0x2a1a0e,2.2,3.1,1.98);
+  for(let i=0;i<4;i++)B(g,.08,1.3,.1,IRN,1.86+i*.23,1.95,2.1);
+  for(const s of[0,1])B(g,.9,.08,.6,0x6a4a2a,2.2,1.86,2.3+s*.5);
+  BANNER(g,col,-.4,3.36,1.95,.44,.95);BANNER(g,col,1.2,3.36,1.95,.44,.95);
+  TORCH(g,1.5,2.0,2.0);TORCH(g,2.9,2.0,2.0);
+  PINE(g,3.0,.9,1.0,1.0);PINE(g,-3.0,.5,-1.4,.85);PINE(g,.6,1.1,-1.9,.75);
+  FLAG(g,col,.55,5.28,.25,1.4);};
+/* ===================== wrapper ===================== */
+const wrap=(f,sc)=>col=>{SMKQ.length=0;
+  const g=new THREE.Group(),inner=new THREE.Group();f(inner,col);inner.scale.setScalar(sc);g.add(inner);
+  g.traverse(o=>{if(o.isMesh){o.castShadow=true;o.receiveShadow=true;}});
+  for(const q of SMKQ){const an=new THREE.Group();an.position.set(q.x*sc-.07,q.y*sc-.27,q.z*sc);g.add(an);
+    const sm=[];for(let i=0;i<3;i++){const p=new THREE.Mesh(new THREE.SphereGeometry(.02,8,6),smokeM.clone());p.position.set(.07,.27,0);an.add(p);sm.push(p);}
+    smokes.push({g:an,sm,ph:Math.random()*6});}
+  SMKQ.length=0;return g;};
 const mk=(o,sc)=>{const r={};for(const k in o)r[k]=wrap(o[k],sc);return r;};
-MK.STYB=null;return {t:mk({en:H.ingles,es:H.espanol,fr:H.frances,de:H.aleman},.1),c:mk({en:C.ingles,es:C.espanol,fr:C.frances,de:C.aleman},.085)};})();
+MK.STYB=null;return {t:mk({en:H.en,es:H.es,fr:H.fr,de:H.de},.082),c:mk({en:C.en,es:C.es,fr:C.fr,de:C.de},.082)};})();
 
   MK.STYB=STYB;
   MK.apply=(st,first)=>{

diff --git a/index.html b/index.html
@@ -4082,7 +4082,7 @@ function styHTML(){
   const net=typeof NET!=='undefined'&&NET.role,seat=net?0:Math.min(STYSEAT,5),o=styOf(seat);
   const row=(k,lab)=>`<div class="styr"><small style="display:block;margin:4px 0 2px;color:var(--muted)">${lab}</small><div class="thm" role="group" aria-label="${lab}">${Object.keys(STYN).map(id=>`<button class="btn${o[k]===id?' on':''}" onclick="setSty(${seat},'${k}','${id}')" aria-pressed="${o[k]===id}">${STYN[id]}</button>`).join('')}</div></div>`;
   const tabs=net?'':`<div class="thm" role="group" aria-label="Jugador">${[0,1,2,3,4,5].map(i=>`<button class="btn${i===seat?' on':''}" onclick="setStySeat(${i})" aria-pressed="${i===seat}"><span class="sw" style="background:${PCOL[i]}"></span>${i===0?'Tú':'Jugador '+(i+1)}</button>`).join('')}</div>`;
-  return `<h3>Estilo de pueblo y castillo</h3><p style="color:var(--muted);font-size:13px;margin:0 0 6px">${net?'Tu estilo en la sala; los demás jugadores lo ven en la vista 3D.':'Elige cómo se ven los pueblos y castillos de cada jugador en la vista 3D. Los jugadores 2 a 6 son los rivales de la IA.'}</p>${tabs}<div class="stypv"><figure><img src="/assets/sty/t-${o.t}.jpg" alt="Pueblo ${STYN[o.t]}" width="320" height="240"><figcaption>Pueblo · ${STYN[o.t]}</figcaption></figure><figure><img src="/assets/sty/c-${o.c}.jpg" alt="Castillo ${STYN[o.c]}" width="320" height="240"><figcaption>Castillo · ${STYN[o.c]}</figcaption></figure></div>${row('t','Pueblo')}${row('c','Castillo')}`;
+  return `<h3>Estilo de pueblo y castillo</h3><p style="color:var(--muted);font-size:13px;margin:0 0 6px">${net?'Tu estilo en la sala; los demás jugadores lo ven en la vista 3D.':'Elige cómo se ven los pueblos y castillos de cada jugador en la vista 3D. Los jugadores 2 a 6 son los rivales de la IA.'}</p>${tabs}<div class="stypv"><figure><img src="/assets/sty/t-${o.t}.jpg?v=2?v=2" alt="Pueblo ${STYN[o.t]}" width="320" height="240"><figcaption>Pueblo · ${STYN[o.t]}</figcaption></figure><figure><img src="/assets/sty/c-${o.c}.jpg?v=2?v=2" alt="Castillo ${STYN[o.c]}" width="320" height="240"><figcaption>Castillo · ${STYN[o.c]}</figcaption></figure></div>${row('t','Pueblo')}${row('c','Castillo')}`;
 }
 function showPersonalize(){
   openModal(`<h2>Personalizar</h2><p>Elige cómo se ve el tablero y tu color. Se guarda en este dispositivo.</p>
